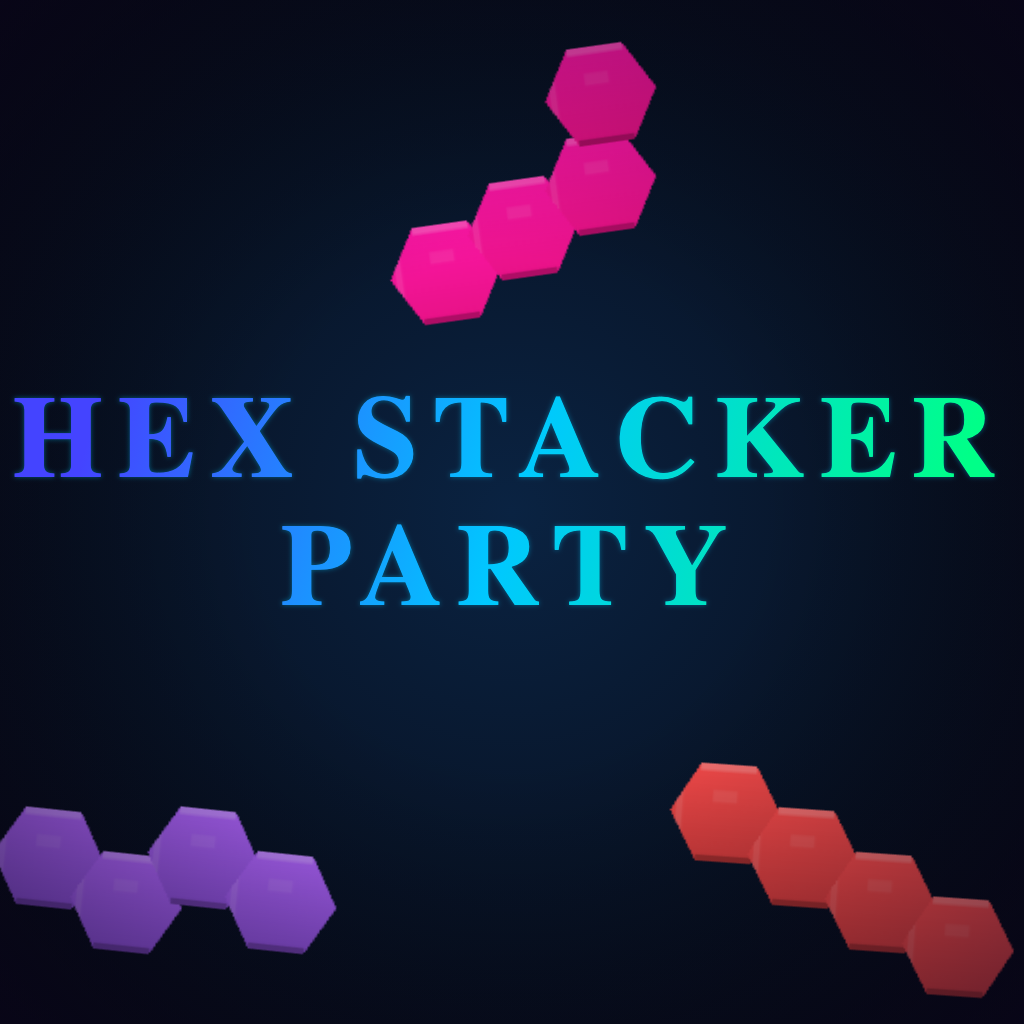
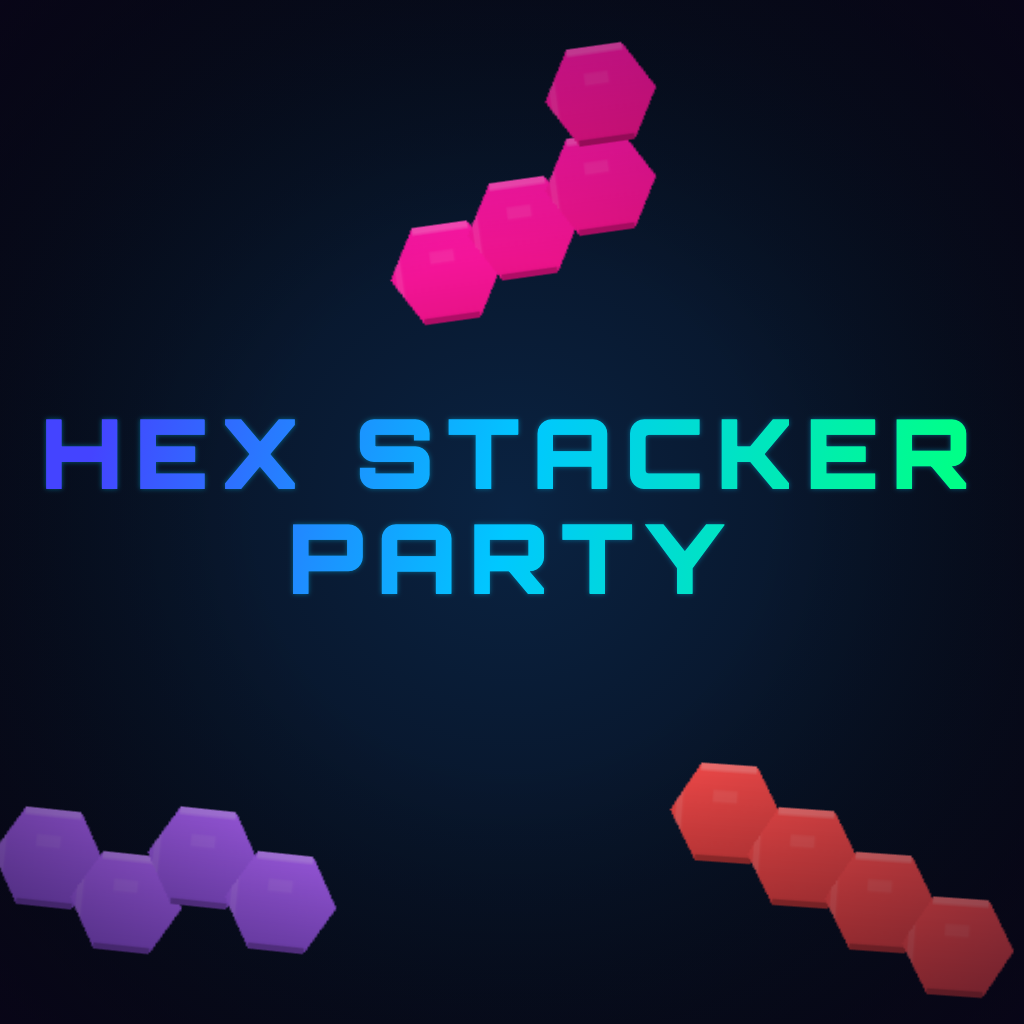
fix(artwork): use Orbitron font in cover art, size to fit canvas
The cover art was rendering in a fallback sans-serif instead of Orbitron
after export-cover.js switched to file:// URLs — the @font-face src used
an absolute /shared/fonts/... path that only resolves via HTTP. Switched
to a relative ../public/shared/fonts/... path so Orbitron loads under
file://.

Also dropped the default titleSize from 58 → 48 so "HEX STACKER" fits
the 1024x1024 canvas without the H/R being clipped at the edges.

Changed region(s): [[0.2812, 0.375, 0.9688, 0.5938], [0.0, 0.375, 0.2812, 0.5]]

diff --git a/artwork/builder.html b/artwork/builder.html
@@ -5,7 +5,7 @@
 <meta name="viewport" content="width=device-width, initial-scale=1.0">
 <title>HexStacker Party — Cover Art Builder</title>
 <style>
-@font-face{font-family:'Orbitron';font-style:normal;font-weight:100 900;font-display:block;src:url('/shared/fonts/Orbitron.woff2') format('woff2')}
+@font-face{font-family:'Orbitron';font-style:normal;font-weight:100 900;font-display:block;src:url('../public/shared/fonts/Orbitron.woff2') format('woff2')}
 
 *, *::before, *::after { box-sizing: border-box; margin: 0; padding: 0; }
 
@@ -257,8 +257,8 @@ body {
       <h3>Title</h3>
       <div class="field">
         <label>Font size</label>
-        <input type="range" id="titleSize" min="40" max="120" value="58">
-        <span class="val" id="titleSizeVal">58</span>
+        <input type="range" id="titleSize" min="40" max="120" value="48">
+        <span class="val" id="titleSizeVal">48</span>
       </div>
       <div class="field">
         <label>Vertical pos</label>
